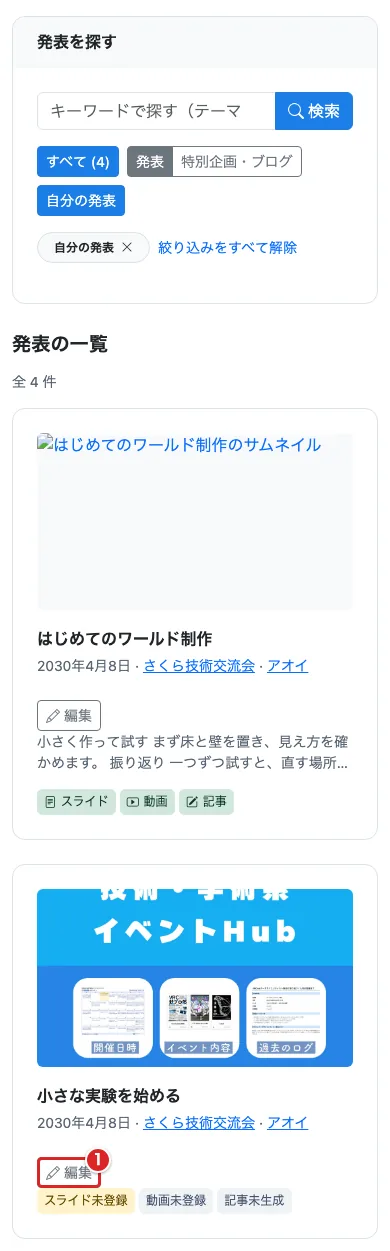
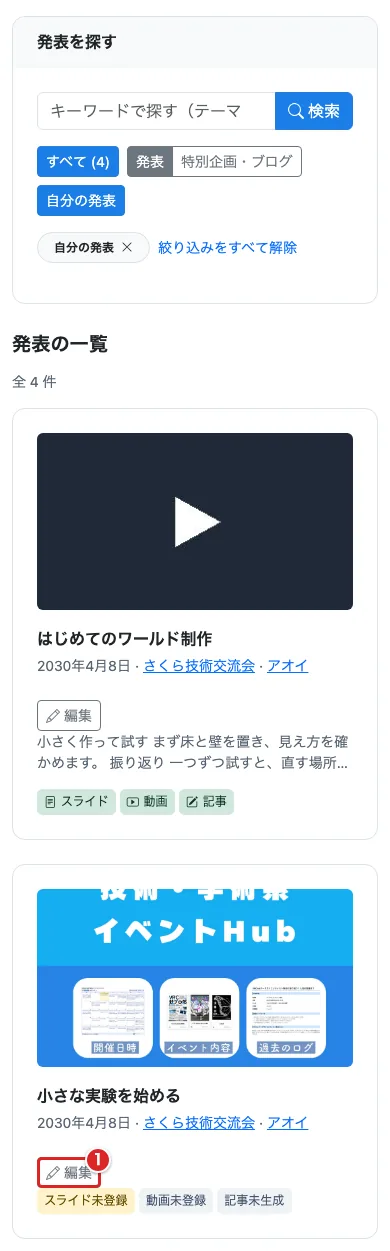
docs(guide): レビュー台帳の対応を「直した／直さない（理由）」にそろえ、画像切れの 1 枚を撮り直す (#845)
- _review.md の「アプリ側（#8xx）」「未対応」を「直さない（アプリ側。#8xx）」と理由つきに書き直し、凡例を更新
- 撮影時に img.youtube.com を手元の見本画像で返し、架空の動画 URL のサムネイルが画像切れになるのを防ぐ（lt/link-speaker-10 を撮り直し）
- docs/design/admin-ui.md のサブナビから #841 で外れた「発表申請一覧」を消す

Claude-Session: https://claude.ai/code/session_01XXsYAmkhJ6uEiZVgk4R8p6

Changed region(s): [[0.0923, 0.3429, 0.9231, 0.4988]]

diff --git a/scripts/guide_screenshots/capture.py b/scripts/guide_screenshots/capture.py
@@ -9,7 +9,7 @@ from collections.abc import Callable
 from pathlib import Path
 from urllib.parse import urlsplit
 
-from PIL import Image
+from PIL import Image, ImageDraw
 
 from guide.demo import DEMO_USERS, demo_password
 
@@ -202,6 +202,15 @@ class Capture:
                           'width': image.width, 'height': image.height}, ensure_ascii=False))
 
 
+def youtube_thumbnail():
+    """架空の YouTube URL の代わりに見せるサムネイル。撮影では外部の画像を読まない。"""
+    image = Image.new('RGB', (320, 180), '#1f2937')
+    ImageDraw.Draw(image).polygon(((140, 65), (140, 115), (185, 90)), fill='#ffffff')
+    buffer = io.BytesIO()
+    image.save(buffer, 'JPEG')
+    return buffer.getvalue()
+
+
 def main():
     from playwright.sync_api import sync_playwright
 
@@ -216,6 +225,7 @@ def main():
         raise ValueError(f'未登録のページ: {sorted(unknown)}')
     started = time.monotonic()
     count = 0
+    thumbnail = youtube_thumbnail()
     with sync_playwright() as playwright:
         # ファイル選択ボタンなどブラウザ自身の表記も日本語にする。
         browser = playwright.chromium.launch(args=['--lang=ja-JP'])
@@ -233,6 +243,8 @@ def main():
                                 route.continue_()
                             elif url.hostname in {'cdn.jsdelivr.net', 'cdnjs.cloudflare.com', 'fonts.googleapis.com', 'fonts.gstatic.com'} and route.request.resource_type in {'stylesheet', 'font', 'script'}:
                                 route.continue_()
+                            elif url.hostname == 'img.youtube.com':
+                                route.fulfill(body=thumbnail, content_type='image/jpeg')
                             else:
                                 route.abort()
                         context.route('**/*', route_request)

diff --git a/app/guide/tests/test_screenshots.py b/app/guide/tests/test_screenshots.py
@@ -2,7 +2,7 @@
 import importlib.util
 import os
 from datetime import datetime, timezone
-from io import StringIO
+from io import BytesIO, StringIO
 from pathlib import Path
 from unittest import mock
 from unittest.mock import Mock
@@ -60,6 +60,11 @@ class ScreenshotGuardTest(SimpleTestCase):
         with self.assertRaises(ValueError):
             capture.shot()
         page.screenshot.assert_not_called()
+
+    def test_youtube_thumbnail_is_a_local_image(self):
+        # 架空の動画 URL のサムネイルを画像切れにしない（外部の画像は撮影で読まない）。
+        with capture_module.Image.open(BytesIO(capture_module.youtube_thumbnail())) as image:
+            self.assertEqual((image.format, image.size), ('JPEG', (320, 180)))
 
 
 class GuideDemoDataTest(TestCase):

diff --git a/docs/guide/_review.md b/docs/guide/_review.md
@@ -3,7 +3,8 @@
 ガイドを書いた担当とは別の目（UI/UX デザイナーの視点）で、本文・画像・表示側・描画した実ページ（PC 幅 1280px とスマホ幅 390px）を照合したレビューの結果と、その対応です。内部資料なので公開しません（`_` で始まるファイルは 404 になります）。
 
 - 重さ: 高 = 初心者が手順を進められない・誤った操作をする / 中 = 迷う・読み落とす / 低 = 体裁
-- 対応: 直した / 直さない（理由） / アプリ側（Issue に記録。ガイドでは本文で補う）
+- 対応: 直した / アプリ側で直った（アプリの変更で解消し、ガイドを合わせた） / 直さない（理由）
+- 「直さない（アプリ側）」は、ガイドの修正では直せない画面の問題。Issue に記録してアプリの変更として扱い、ガイドは今の画面の動きを本文で説明する
 - アプリ側の画面の問題は、管理画面を作り直す Issue #813（集会設定 #815・アクセス解析と配布リンク #817・X 告知 #818・アカウント設定 #819・イベント管理 #823・allauth の画面 #824）に記録しました。画面が変わったら `scripts/guide_screenshots/run.sh <ページ>` で撮り直し、本文も合わせます
 
 ## 全体・入口
@@ -21,7 +22,7 @@
 | 中 | ページの大見出し（H1）が出ていない（共通の Markdown 処理が本文先頭の H1 を外す） | フロントマターの title を H1 として出す | 直した（`page.html`。共通処理は他の画面でも使うので変えない） |
 | 中 | ページ内の目次・検索が無い。スマホで長いページ（ログインページは縦 1 万 px 超）から「困った時」などを探しにくい | h2/h3 からページ内の目次を作る | 直した。「このページの内容」を H1 の直後に出す（スマホは閉じた状態、PC は 2 段組で開いた状態）。見出しに id を付け、本文の `#id` リンクの実在をテストで確かめる。ガイド内の検索は直さない（44 ページで、目次・ページ内の目次・ブラウザのページ内検索で足りるため。ページが増えたら見直す） |
 | 中 | スマホ幅で表示中の画像を押すと、拡大先が PC 版になり、配置が変わって同じ場所を探し直す | 表示中の画像を開く | 直した（押した時に表示中の画像 `currentSrc` を開く。JS が無い時は PC 版） |
-| 中 | 一部の PC 画像（`community/settings-03`、`lt/auto-generate-05` 等）が画面の横幅いっぱいで、操作箇所に対して余白が多く文字が小さい | 操作箇所ごとに切り出す | 集会設定は #835 に合わせてカード単位の撮影シナリオに更新した。その他は直さない。「設定画面のどこにあるか」を示す全体図で、次の手順で入力欄の拡大図を出している。画像は押すと原寸で開く |
+| 中 | 一部の PC 画像（`community/settings-03`、`lt/auto-generate-05` 等）が画面の横幅いっぱいで、操作箇所に対して余白が多く文字が小さい | 操作箇所ごとに切り出す | 一部直した。集会設定は #835 に合わせてカード単位の撮影シナリオに更新した。その他は直さない。「設定画面のどこにあるか」を示す全体図で、次の手順で入力欄の拡大図を出している。画像は押すと原寸で開く |
 | 低 | スマホで表の列が細くなり、「必須」が 1 文字ずつ折り返される（`event/create.md` の入力項目の表など） | 表を横スクロールの枠で包み、セルに最小幅を付ける | 直した |
 | 低 | スマホの「メニュー」ボタンに `aria-expanded` / `aria-controls` が無い | 開閉に合わせて更新する | 直した |
 | 低 | `settings/x-template-03` / `-05` で、下端の番号と保存ボタンが切れている（撮影時に表示の高さが変わってレイアウトがずれていた） | 撮影ヘルパーで、測る前に表示の高さを広げる | 直した（`scenarios/settings.py`）。撮り直した |
@@ -30,10 +31,10 @@
 
 | 重さ | 指摘 | 直し方 | 対応 |
 |---|---|---|---|
-| 高 | 削除ボタンと確認文が「Google カレンダーから削除」と読めるが、Hub の開催回・発表・記事も消える | 確認の中で、消える開催回・発表の件数・記事を出す | 一部はアプリ側で直った（#811）。カード内に開催日・取り消せない旨と「カレンダーから削除する」「キャンセル」を表示する。発表・記事も消える説明や件数は未対応（#823）。`event/delete.md` で範囲を補足した |
-| 高 | 定期イベントの親（最初の回）を消すと子の開催回も消えるが、管理画面に親を見分ける表示が無い | 削除の確認で、実際に消える日時と件数を一覧で出す | アプリ側で未対応（#823）。#811 の確認欄にも親子の表示や削除件数は無い。`event/delete.md` で親子の例外を説明している |
-| 中 | イベント管理の地図で、本文の番号と画像の対象が合わない | 新しい見出し・リンク列・要対応・開催回・発表の行に番号を振り直す | 本文とシナリオを #841 に合わせて更新した。①〜⑤ は画面上部（集会管理と個人用を分ける）、⑥〜⑨ は開催回、⑩〜⑫ は発表の操作。「記事を生成」は発表の「…」にある |
-| 中 | スタッフにも削除ボタンが出るが、押すと権限エラー（削除は主催者のみ） | 主催者だけに出す | アプリ側で未対応（#823）。#811 のテンプレートでも開催回の削除項目・確認欄に主催者だけの表示条件は無い。ガイドは主催者だけの操作と明記している |
+| 高 | 削除ボタンと確認文が「Google カレンダーから削除」と読めるが、Hub の開催回・発表・記事も消える | 確認の中で、消える開催回・発表の件数・記事を出す | 直さない（アプリ側。#823）。一部はアプリ側で直った（#811）。カード内に開催日・取り消せない旨と「カレンダーから削除する」「キャンセル」を表示する。発表・記事も消える説明や件数の表示はアプリの変更が要る。`event/delete.md` で範囲を補足した |
+| 高 | 定期イベントの親（最初の回）を消すと子の開催回も消えるが、管理画面に親を見分ける表示が無い | 削除の確認で、実際に消える日時と件数を一覧で出す | 直さない（アプリ側。#823）。#811 の確認欄にも親子の表示や削除件数は無い。`event/delete.md` で親子の例外を説明している |
+| 中 | イベント管理の地図で、本文の番号と画像の対象が合わない | 新しい見出し・リンク列・要対応・開催回・発表の行に番号を振り直す | 直した。本文とシナリオを #841 に合わせて更新した。①〜⑤ は画面上部（集会管理と個人用を分ける）、⑥〜⑨ は開催回、⑩〜⑫ は発表の操作。「記事を生成」は発表の「…」にある |
+| 中 | スタッフにも削除ボタンが出るが、押すと権限エラー（削除は主催者のみ） | 主催者だけに出す | 直さない（アプリ側。#823）。#811 のテンプレートでも開催回の削除項目・確認欄に主催者だけの表示条件は無い。ガイドは主催者だけの操作と明記している |
 | 中 | イベント管理の「発表申請一覧」は、集会に届いた申請ではなく本人の申請一覧 | 「自分の発表申請」と表示する | アプリ側で直った（#841）。集会管理のリンク列から外し、「個人用」の「自分の発表申請」に分かれた。主催側の承認待ちは引き続き「要対応」に表示する。`event/manage.md`・`lt/approve.md`・`speaker/manage.md` を合わせた |
 
 ## 発表者向け・アカウント
@@ -41,10 +42,10 @@
 | 重さ | 指摘 | 直し方 | 対応 |
 |---|---|---|---|
 | 高 | 記事の自動生成は発表者本人も使えると書くのに、手順 1 が主催者・スタッフ用のイベント管理から始まる | 発表者と主催者・スタッフの入口を分ける | 直した（`lt/auto-generate.md`。発表者は「アカウント設定 → 自分の発表」から、画像付き） |
-| 中 | 本人の発表申請一覧（承認待ち・却下を含む）への常設の入口がアカウント設定に無い | 入口を足す | アプリ側（#819）。ガイドの `speaker/manage.md` で一覧への行き方を説明している |
+| 中 | 本人の発表申請一覧（承認待ち・却下を含む）への常設の入口がアカウント設定に無い | 入口を足す | 直さない（アプリ側。#819）。ガイドの `speaker/manage.md` で一覧への行き方を説明している |
 | 中 | スマホの申請一覧・API キー一覧が縦に折り返される | スマホではカードにする | アプリ側で直った（#838）。申請一覧は発表ごとのカード、API キー一覧は名前・操作・無効化の確認欄を含む行になった。横スワイプとブラウザ標準の確認の説明をガイドから外した |
-| 中 | 申請画面は「スライドや動画は承認後に編集」と案内するが、承認待ちでも編集できる | 編集できる項目と、主催者に頼む日時の変更を分けて案内する | アプリ側（#823）。ガイドの `speaker/manage.md` は今の動きどおり書いている |
-| 中 | 表示用ユーザー名を画面で「一意」と説明しているが、同じ名前を使える | 「一意」を消す | アプリ側（#819）。ガイドの `account/profile.md` は同じ名前を使えると書いている |
+| 中 | 申請画面は「スライドや動画は承認後に編集」と案内するが、承認待ちでも編集できる | 編集できる項目と、主催者に頼む日時の変更を分けて案内する | 直さない（アプリ側。#823）。ガイドの `speaker/manage.md` は今の動きどおり書いている |
+| 中 | 表示用ユーザー名を画面で「一意」と説明しているが、同じ名前を使える | 「一意」を消す | 直さない（アプリ側。#819）。ガイドの `account/profile.md` は同じ名前を使えると書いている |
 | 中 | ログインページに登録・メール確認・2 種類のログイン・ログアウトが続き、再訪した人が手順を選びにくい | 冒頭に分岐を置く | 直した（「やりたい手順を選ぶ」から各手順へ移動できる） |
 | 中 | 主催者が発表を足す画面の開始時刻の欄が狭く、スマホで時刻が切れる | 欄の幅を確保する | アプリ側で直った（#833）。開始時間・持ち時間は「日時」のカードに分かれ、入力欄の幅が確保された。ガイドも「内容」の撮影欄と「日時」の入力欄に分けた |
 
@@ -52,11 +53,11 @@
 
 | 重さ | 指摘 | 直し方 | 対応 |
 |---|---|---|---|
-| 中 | ポスター欄の「高解像度の原本を保持し」が保存処理と合わない（縮小・再圧縮して保存） | 原本は手元に残すよう案内する | アプリ側（#815）。ガイドの `community/create.md` は縮小して保存すると書いている |
+| 中 | ポスター欄の「高解像度の原本を保持し」が保存処理と合わない（縮小・再圧縮して保存） | 原本は手元に残すよう案内する | 直さない（アプリ側。#815）。ガイドの `community/create.md` は縮小して保存すると書いている |
 | 中 | 主催者の引き継ぎの確認が「取り消せません」と出すが、相手が受け入れる前ならリンクを消して取り消せる | この時点では交代しないことを出す | アプリ側で直った（#835）。画面内の確認欄で、相手の受け入れ後に権限が移ると案内する。「取り消せません」の表記はなくなった。ガイドも確認欄とリンク削除の手順に合わせた |
 | 中 | 主催者のみの区分にある招待のページに、招待される人の手順も入っている | 招待する側と受ける側を分ける | 直した（`member/accept.md` に分けた。全体・入口の 1 行目と同じ） |
 | 低 | 集会情報の編集で、曜日のチェックボックスの見出し「曜日」が一覧の最後に出る | 見出しを一覧の上に置く | アプリ側で直った（#835）。曜日は fieldset と legend で、選択肢より上に見出しを置く |
-| 低 | ファイルを選ぶ欄のボタンがブラウザ標準の英語（「Choose File」）のまま | 日本語のラベルを付ける | アプリ側（#813）。ガイドはボタンの位置を赤枠で示している |
+| 低 | ファイルを選ぶ欄のボタンがブラウザ標準の英語（「Choose File」）のまま | 日本語のラベルを付ける | 直さない（アプリ側。#813）。ブラウザ標準の表記で、ガイドはボタンの位置を赤枠で示している |
 
 ## 外部連携・告知
 
@@ -71,11 +72,11 @@
 
 | 重さ | 指摘 | 直し方 | 対応 |
 |---|---|---|---|
-| 中 | 配布リンク・API キーの一覧の操作画像が細い切り出しで、対象の名前が見えない | 名前と操作が両方写る範囲にする | 配布リンクの一覧はアプリ側で直った（#831、#817 対応）。名前・URL・コピー・編集をカードにまとめ、削除は「…」内の確認欄に移った。ガイドとシナリオを合わせた。API キーもアプリ側で直った（#838）。`settings/api-key-04` の撮影範囲は名前・「無効化…」・カード内の確認欄を含む。ガイドも「コピー」「表示」と無効化の確認欄に合わせた |
+| 中 | 配布リンク・API キーの一覧の操作画像が細い切り出しで、対象の名前が見えない | 名前と操作が両方写る範囲にする | アプリ側で直った（#831・#838）。配布リンクの一覧は #831（#817 対応）で直った。名前・URL・コピー・編集をカードにまとめ、削除は「…」内の確認欄に移った。ガイドとシナリオを合わせた。API キーもアプリ側で直った（#838）。`settings/api-key-04` の撮影範囲は名前・「無効化…」・カード内の確認欄を含む。ガイドも「コピー」「表示」と無効化の確認欄に合わせた |
 | 中 | 配布リンクの作成で `Utm_source` や「着地パス」を手で入れさせ、「ドメインより後ろをコピー」と URL の作りの理解を前提にしている | 完全な URL とコピーする部分を並べた例を付ける | 直した（`analytics/distribution-link.md`）。選択式にする案はアプリ側（#817 にコメント。#831 でも手入力のままなので、機能を変える別 Issue にする） |
 | 中 | Vket ステージ登録は、手順 2 で外部フォームへの貼り付けを指示し、フォームを開く説明が手順 6 にある | 先に外部フォームを開き、2 つのタブを行き来すると説明してから転記する | 直した（`vket/stage.md`） |
-| 中 | Vket ステージ登録完了をダイアログで確認する説明が、画面内の確認欄と合わない | 確認欄を開く操作と、記録を確定する操作を分けて示す | アプリ側で変わった（#837）。「Vketで登録したことを記録する」で同じカード内の確認欄を開き、「登録完了を記録する」で確定する。`vket/stage.md` と撮影シナリオを合わせた |
+| 中 | Vket ステージ登録完了をダイアログで確認する説明が、画面内の確認欄と合わない | 確認欄を開く操作と、記録を確定する操作を分けて示す | アプリ側で直った（#837）。「Vketで登録したことを記録する」で同じカード内の確認欄を開き、「登録完了を記録する」で確定する。`vket/stage.md` と撮影シナリオを合わせた |
 | 中 | ポスターの保存方法が右クリックだけ | スマホの長押しを併記する | 直した（`promotion/poster.md`） |
-| 低 | パスワードの設定・再設定・メール確認の画面に、サイトの見た目が当たっていない（allauth の素の画面） | サイトの型に合わせる | アプリ側（#824）。ガイドは今の画面で撮っている |
+| 低 | パスワードの設定・再設定・メール確認の画面に、サイトの見た目が当たっていない（allauth の素の画面） | サイトの型に合わせる | 直さない（アプリ側。#824）。ガイドは今の画面で撮っている |
 
 外部サービス（Discord・VRChat・Unity・WebScreen・Vket）の画面はイメージ図で、本物の画面と細部が違うことがあります。イメージ図には「イメージ図」と表示し、本文でもメニュー名が違う場合があると書いています。

diff --git a/docs/design/admin-ui.md b/docs/design/admin-ui.md
@@ -22,7 +22,7 @@
 |---|---|---|
 | 1 | パンくず | `イベント管理 / 集会設定 / …`。イベント管理がトップ（`event:my_list`） |
 | 2 | 見出し | 左: `画面名: 集会名` の h1。集会を切り替えられる画面は「管理中の集会」の小ラベル＋集会名 ▾（枠なし、マウスを乗せると背景色）。右: 二次ボタン（公開ページを見る ↗ など）＋主ボタン 1 つ |
-| 3 | サブナビ | イベント / 発表申請一覧 / 発表履歴 / アクセス / 集会設定 / 運営だけの画面（「運営」バッジ）。今いる画面に `aria-current="page"`。スマホでは折り返さず横スクロール |
+| 3 | サブナビ | イベント / 発表履歴 / アクセス / 集会設定 / 運営だけの画面（「運営」バッジ）。今いる画面に `aria-current="page"`。スマホでは折り返さず横スクロール。本人用の画面（自分の発表申請など）は集会のサブナビに混ぜず、「個人用」の行に分ける |
 | 4 | 要対応 | 承認待ち・警告を 1 つの箱にまとめ、その場で操作できるボタンを付ける。対応が要る数だけを「要対応 N」と数え、案内（info）は数えない。対応が要るものが無く案内だけなら見出しは「お知らせ」 |
 | 5 | 本文 | 見出しで区切ったカードの並び（下の「一覧」「フォーム」） |
 
